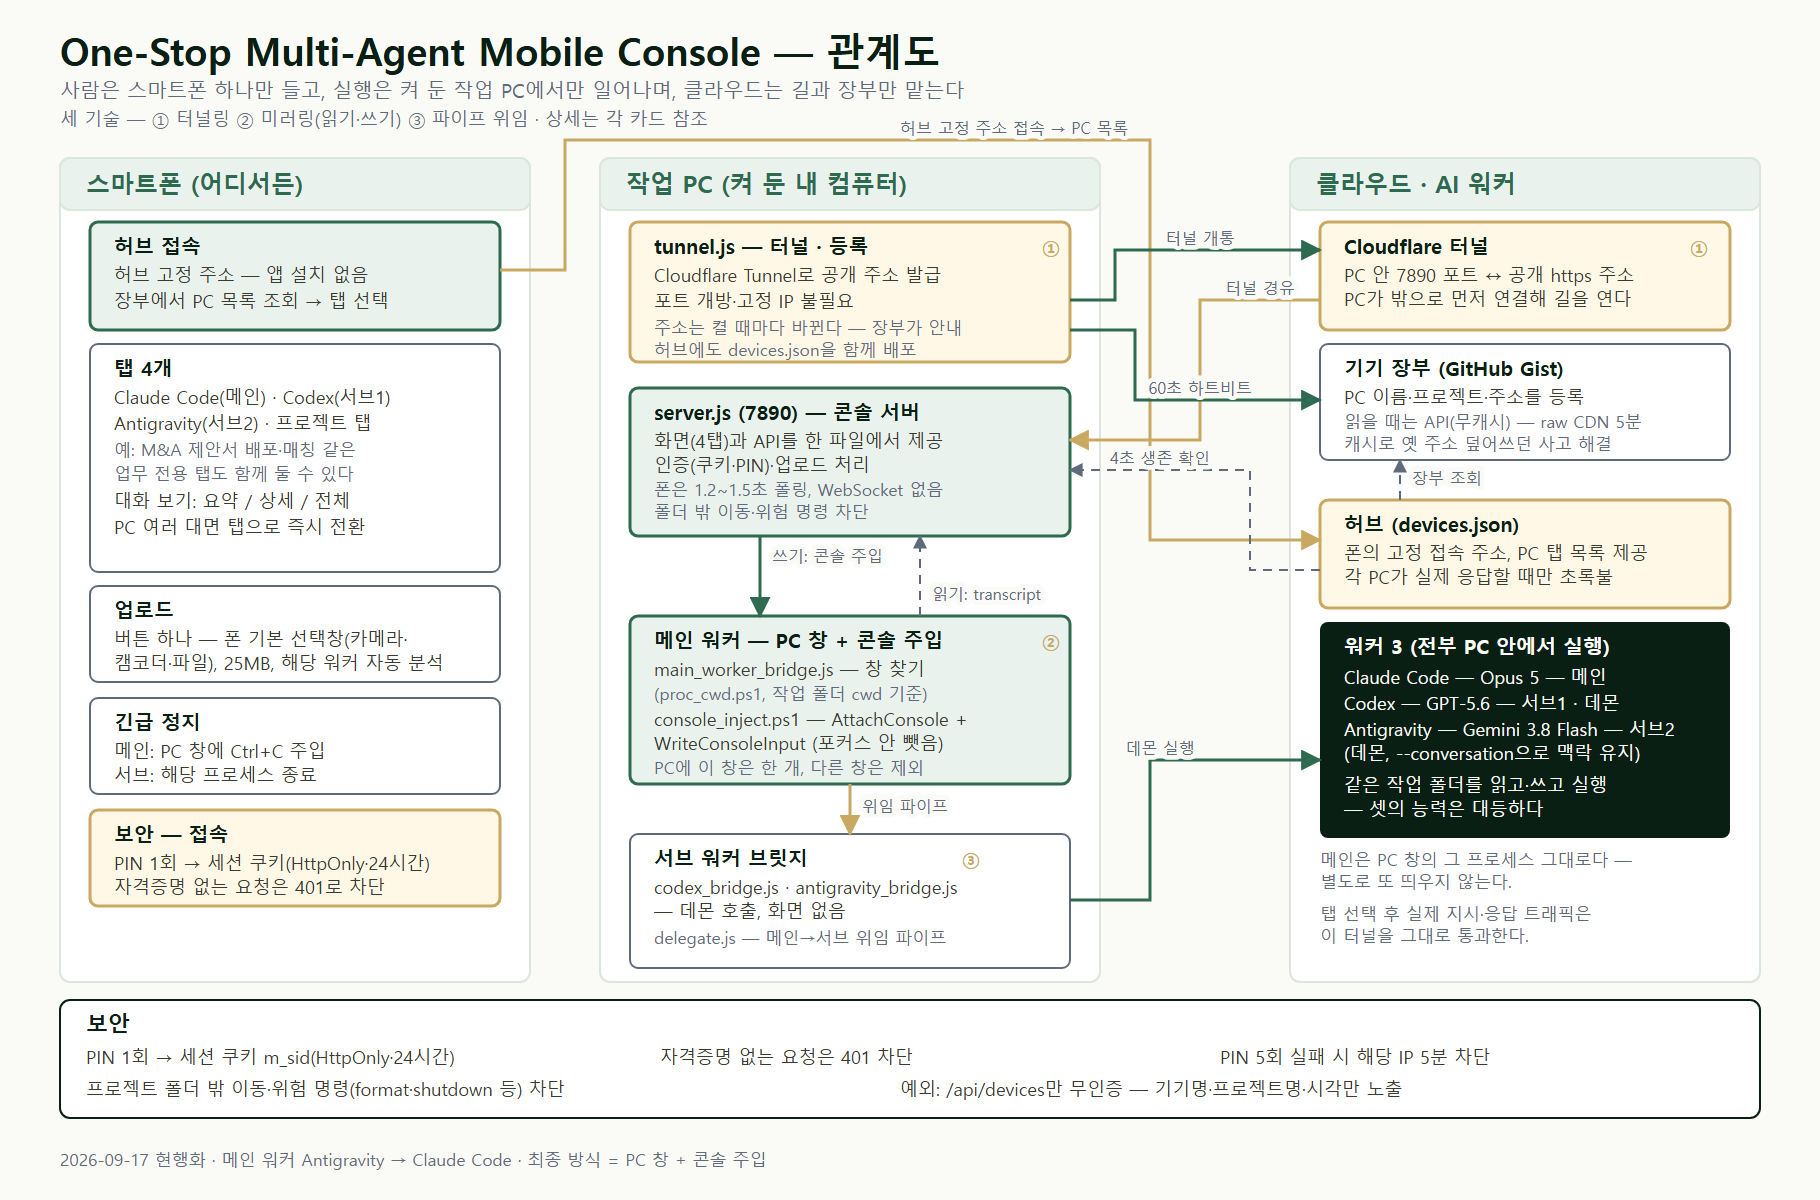
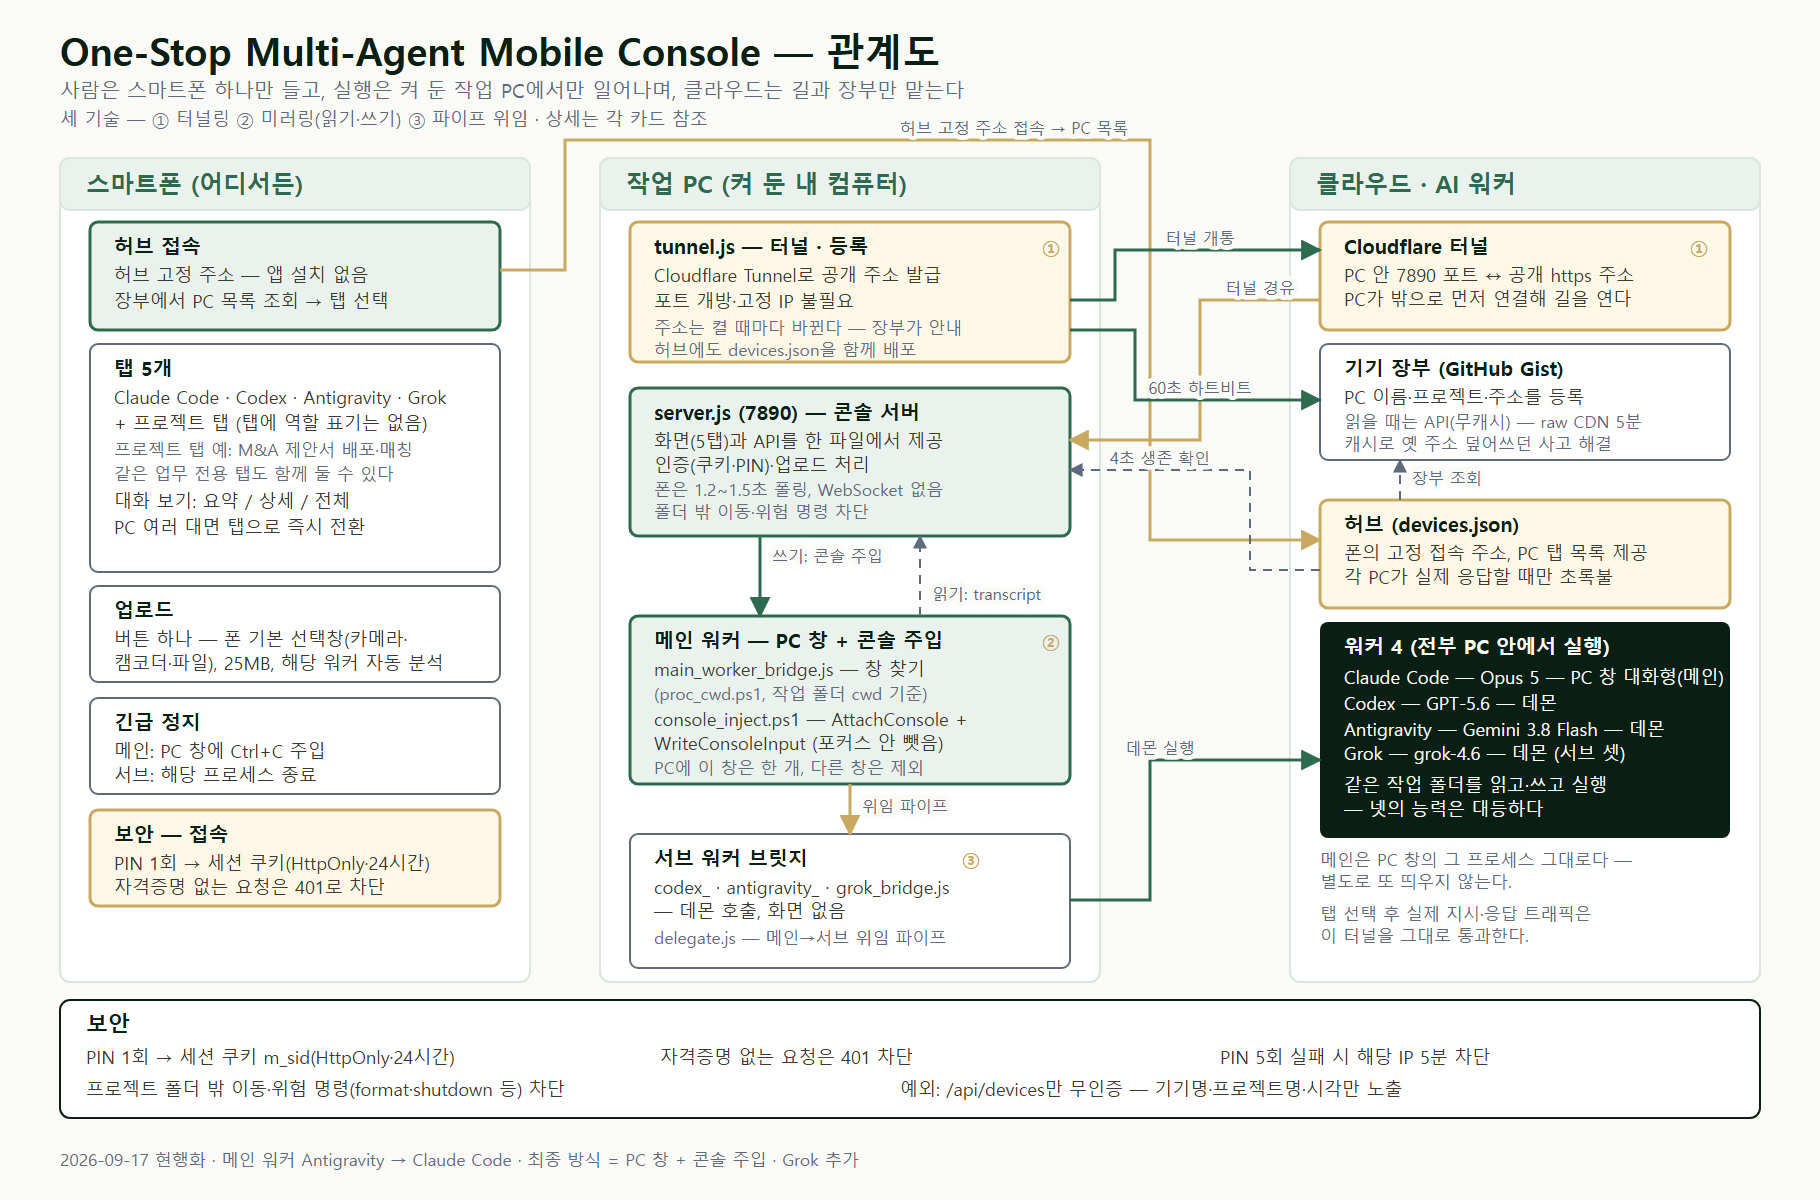
docs: 관계도·흐름도 SVG/PNG에 Grok(서브 3)·탭 5개 반영, 도해 HTML의 허브 프로젝트명 일반화
Claude-Session: https://claude.ai/code/session_01B9whsDDmwpfLVhUvx5sgwz

diff --git a/docs/시스템_관계도_흐름도.html b/docs/시스템_관계도_흐름도.html
@@ -277,7 +277,7 @@ Antigravity 가 메인이던 시절과 같은 원칙입니다.
       │     · raw CDN 은 5분 캐시라 옛 주소를 덮어쓰는 사고가 남
       │     · 60초마다 하트비트 재등록
       │
-      └─▶ 허브(deployconsolehub)에 devices.json 배포
+      └─▶ 허브(Vercel)에 devices.json 배포
             │
             ▼
       폰: 허브 고정 주소 접속
